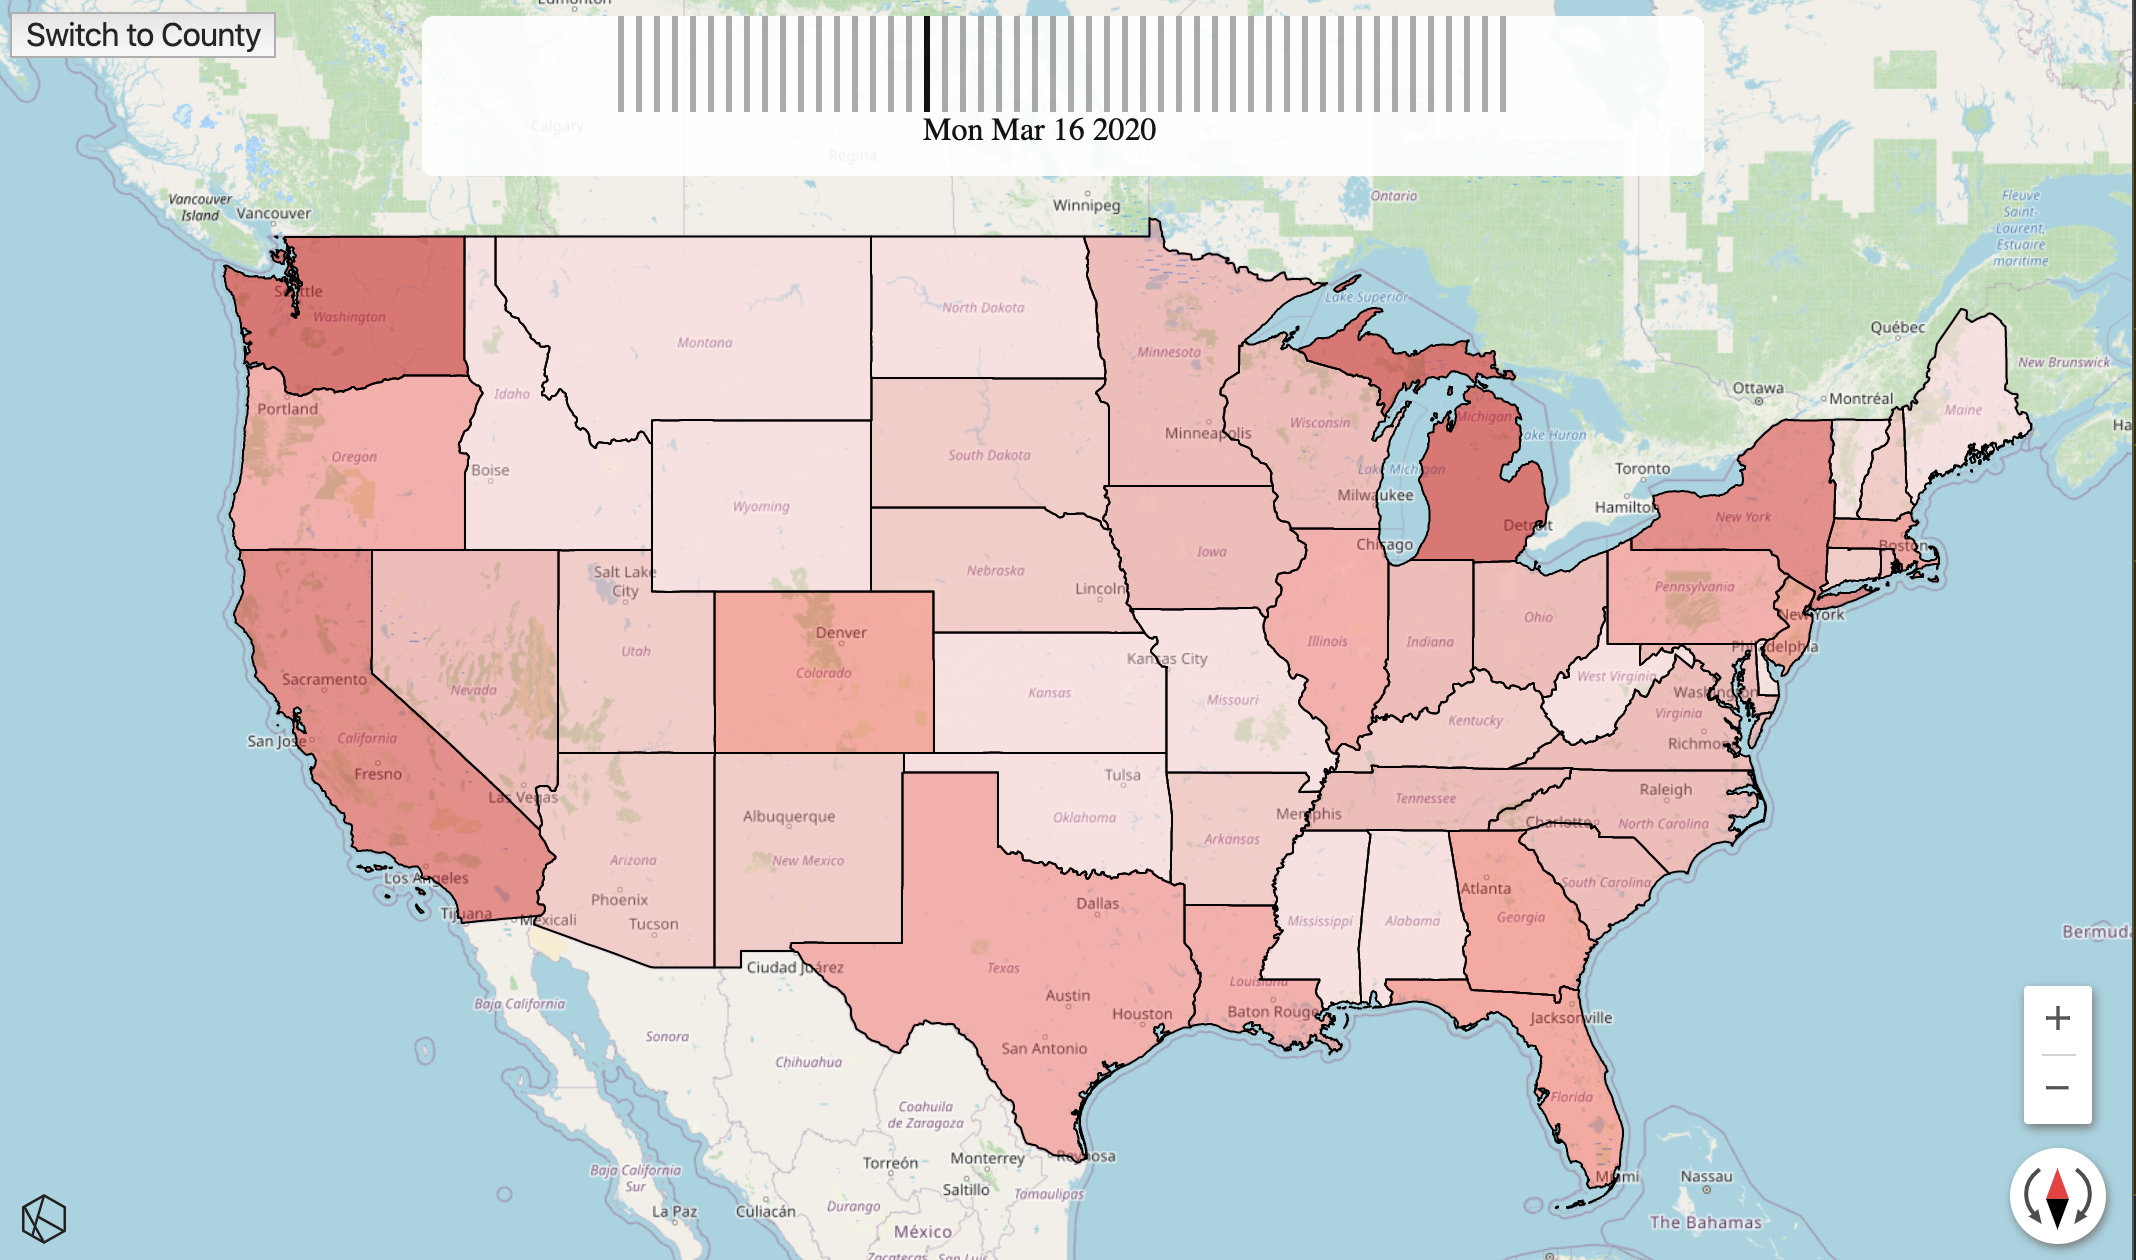
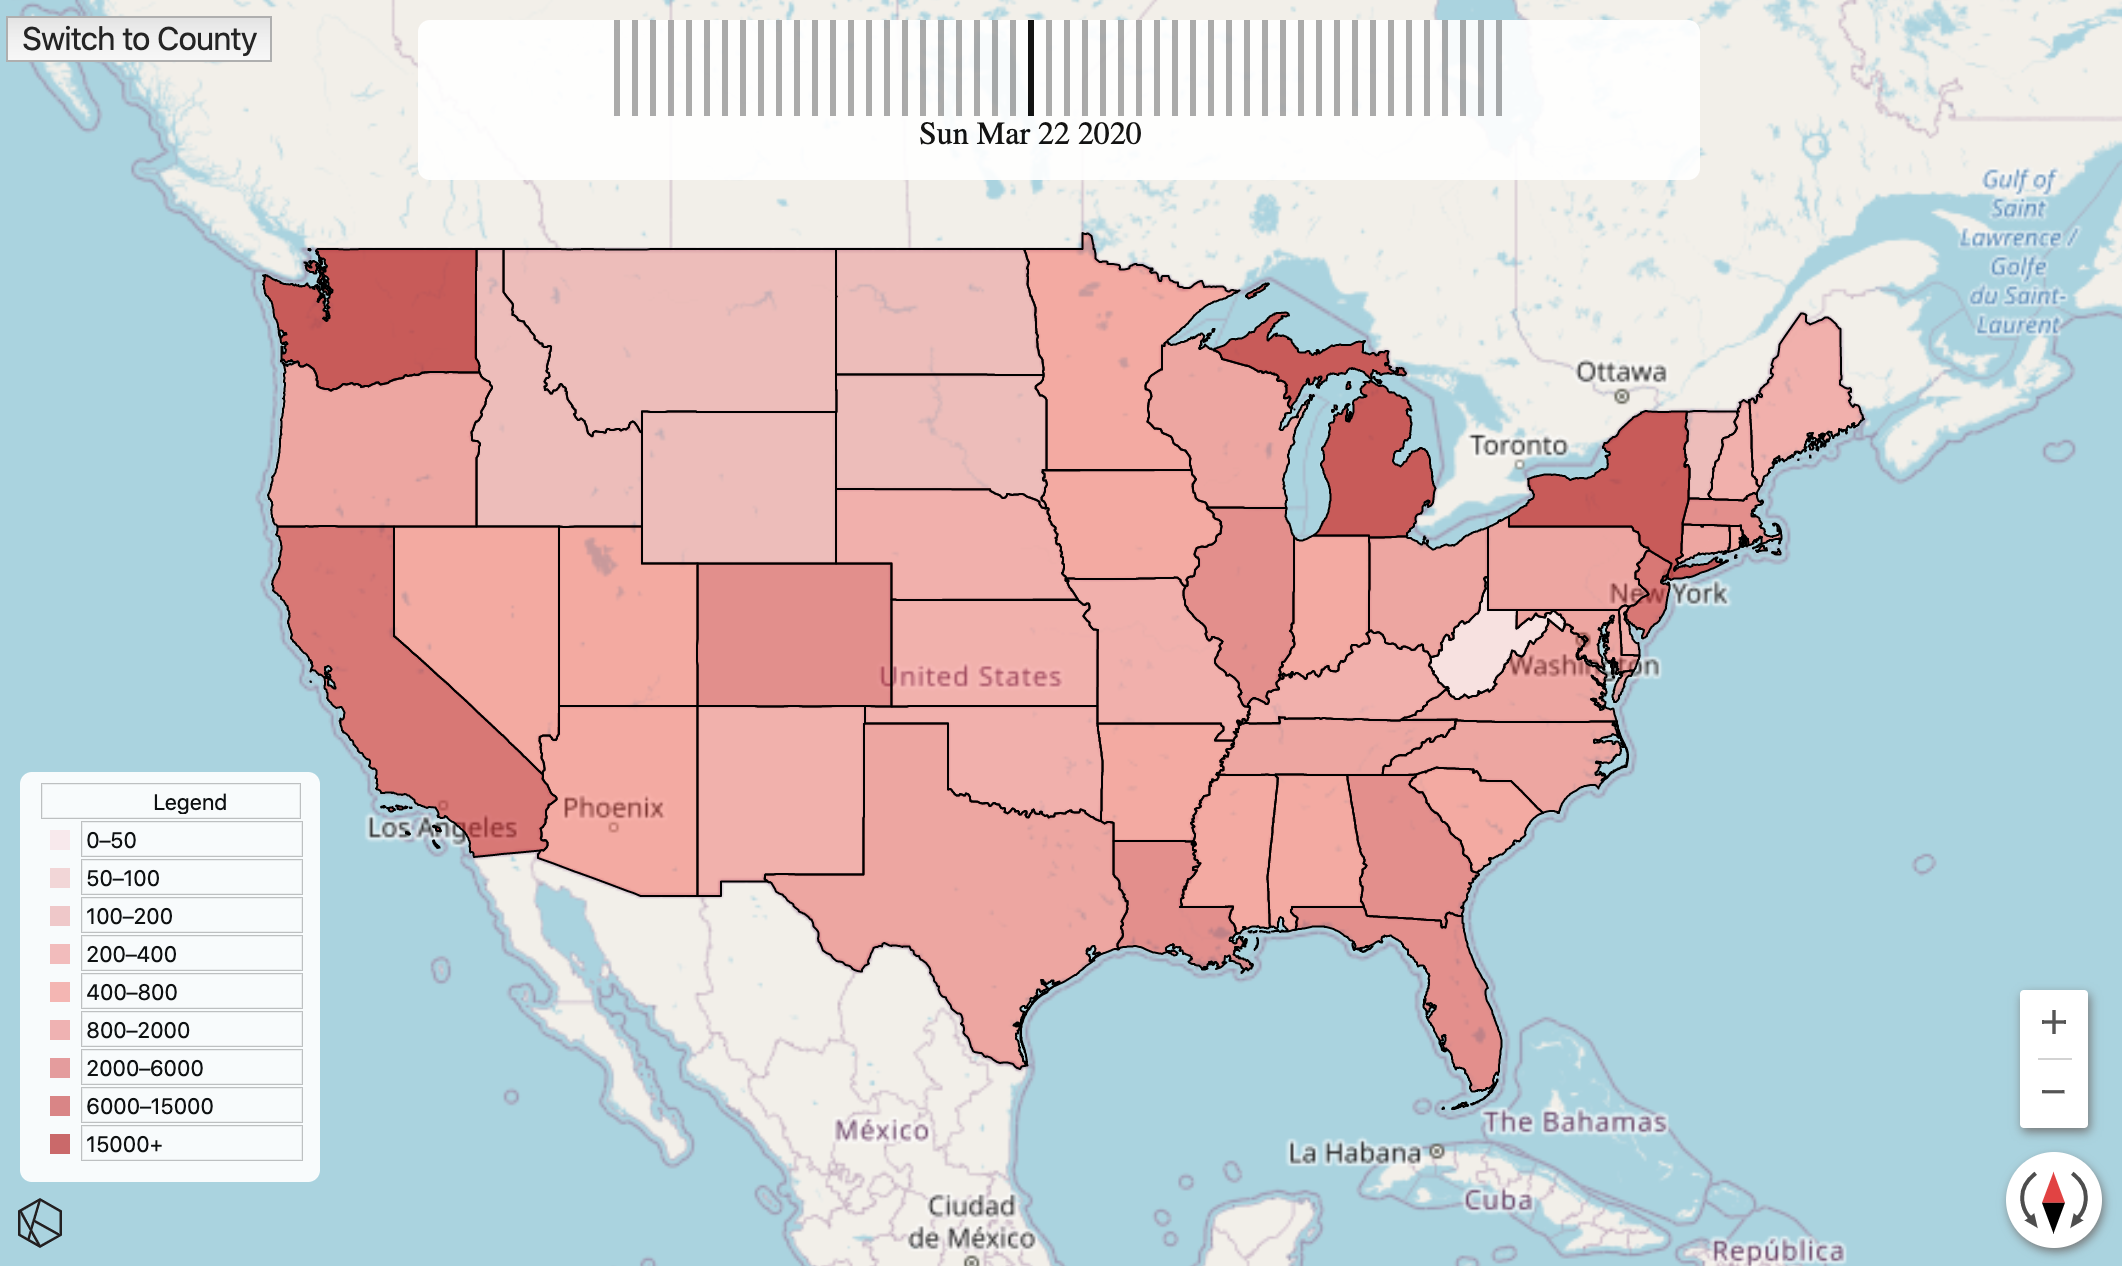
add legend

diff --git a/src/components/Legend.js b/src/components/Legend.js
@@ -1,0 +1,86 @@
+import React from 'react'
+import styled from 'styled-components'
+
+export const Container = styled.div`
+    position: absolute;
+    top: 5px;
+    left: 5px;
+    right: 5px;
+    bottom: 5px;
+    margin: auto;
+    margin-left: 10px;
+    margin-bottom: 40px;
+    padding-left: 10px;
+    padding-top: 5px;
+    justify-content: center;
+    width: 140px;
+    height: 200px;
+    border-radius: 6px;
+    background: white;
+    opacity: .92;
+  `
+
+export const Range = styled.div`
+    position: relative;
+`
+
+export const ColorBox = styled.div`
+    width: 50px;
+    margin: auto;
+    width: 10px;
+    height: 10px;
+    display: inline-block;
+    background-color: #ccc;
+    position: absolute;
+    left: 5px;
+    top: 5px;
+`
+
+function Legend() {
+
+    return (
+        <Container className='_popup_boundary'>
+            <Range>
+                <input style={{ paddingLeft: '20px', textAlign: 'center' }} type="text" value="Legend" />
+            </Range>
+            <Range>
+                <input style={{ marginLeft: '20px' }} type="text" value="0&ndash;50" />
+                <ColorBox style={{ background: '#ffebee' }} />
+            </Range>
+            <Range>
+                <input style={{ marginLeft: '20px' }} type="text" value="50&ndash;100" />
+                <ColorBox style={{ background: 'rgba(239, 154, 154, 0.4)' }} />
+            </Range>
+            <Range>
+                <input style={{ marginLeft: '20px' }} type="text" value="100&ndash;200" />
+                <ColorBox style={{ background: 'rgba(229, 115, 115, 0.4)' }} />
+            </Range>
+            <Range>
+                <input style={{ marginLeft: '20px' }} type="text" value="200&ndash;400" />
+                <ColorBox style={{ background: 'rgba(239, 83, 80, 0.4)' }} />
+            </Range>
+            <Range>
+                <input style={{ marginLeft: '20px' }} type="text" value="400&ndash;800" />
+                <ColorBox style={{ background: 'rgba(244, 67, 54, 0.4)' }} />
+            </Range>
+            <Range>
+                <input style={{ marginLeft: '20px' }} type="text" value="800&ndash;2000" />
+                <ColorBox style={{ background: 'rgba(229, 57, 53, 0.4)' }} />
+            </Range>
+            <Range>
+                <input style={{ marginLeft: '20px' }} type="text" value="2000&ndash;6000" />
+                <ColorBox style={{ background: 'rgba(211, 47, 47, 0.5)' }} />
+            </Range>
+            <Range>
+                <input style={{ marginLeft: '20px' }} type="text" value="6000&ndash;15000" />
+                <ColorBox style={{ background: 'rgba(198, 40, 40, 0.6)' }} />
+            </Range>
+            <Range>
+                <input style={{ marginLeft: '20px' }} type="text" value="15000+" />
+                <ColorBox style={{ background: 'rgba(183, 28, 28, 0.7)' }} />
+            </Range>
+        </Container>
+    )
+}
+
+export default Legend

diff --git a/src/App.js b/src/App.js
@@ -3,6 +3,7 @@ import { Controls, Map, Popup } from '@bayer/ol-kit'
 import DataLoader from './components/DataLoader'
 import TimeTicker from './TimeTicker'
 import CountyLoader from './components/CountyLoader'
+import Legend from './components/Legend'
 
 function App() {
   const [dates, setDates] = useState([])
@@ -37,10 +38,11 @@ function App() {
         <TimeTicker
           dates={dates}
           setSelectedDate={setSelectedDate}/>
-        </div>}
-
+        <Legend />
+      </div>}
       <Controls />
       <Popup />
+      
 
     </Map>
   )
